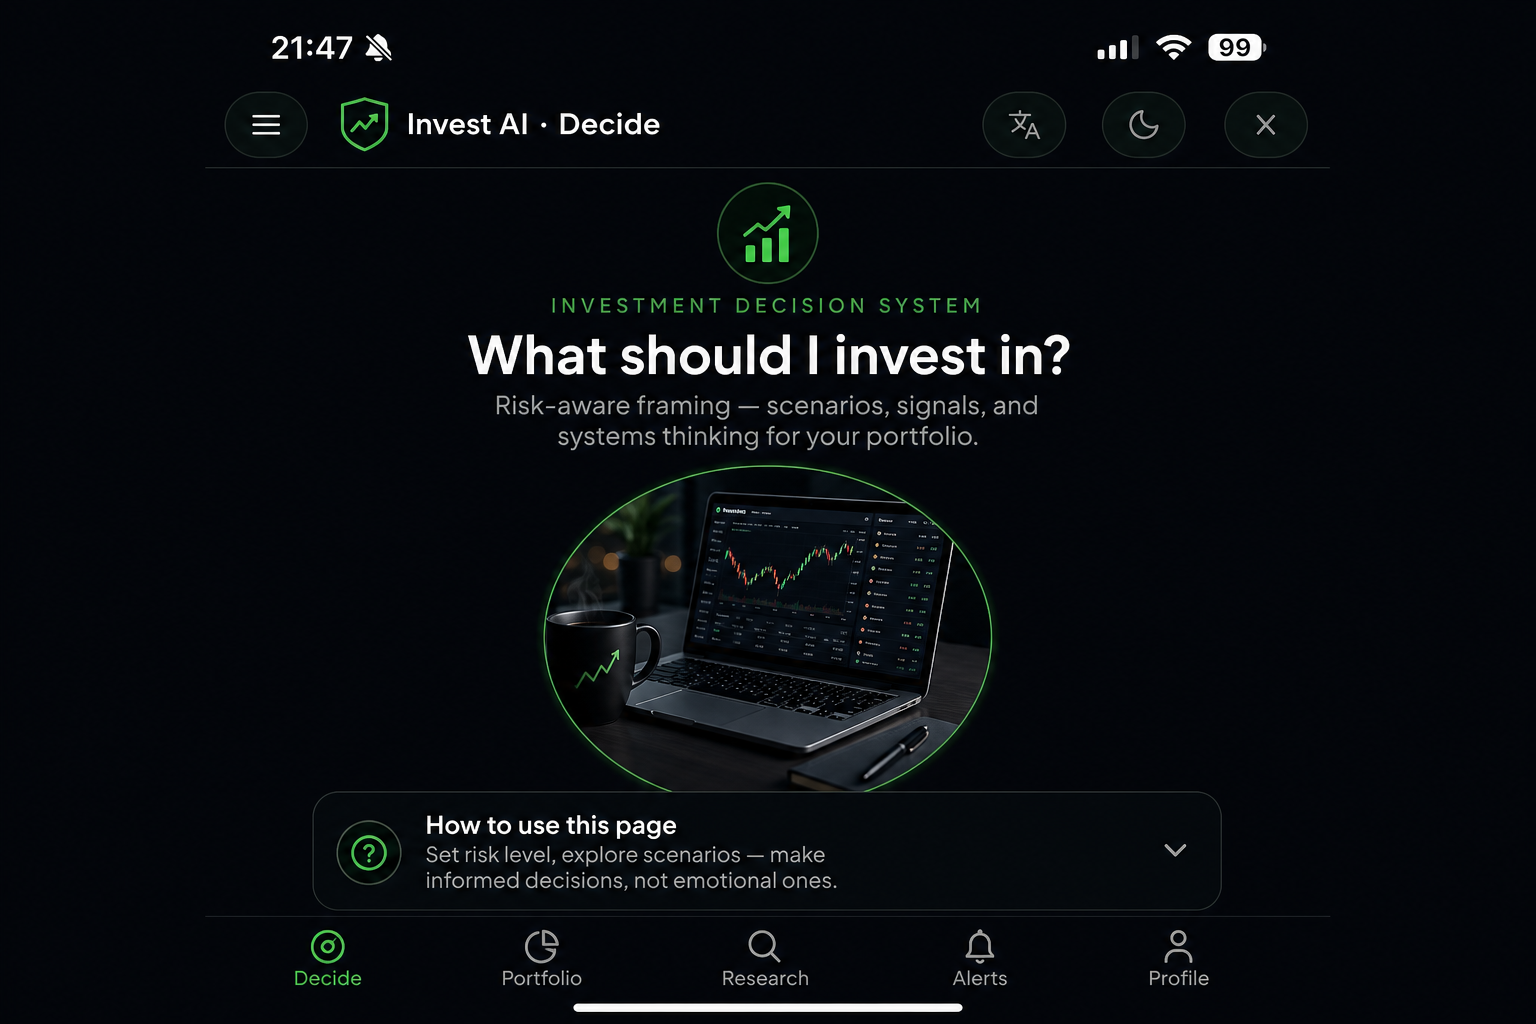
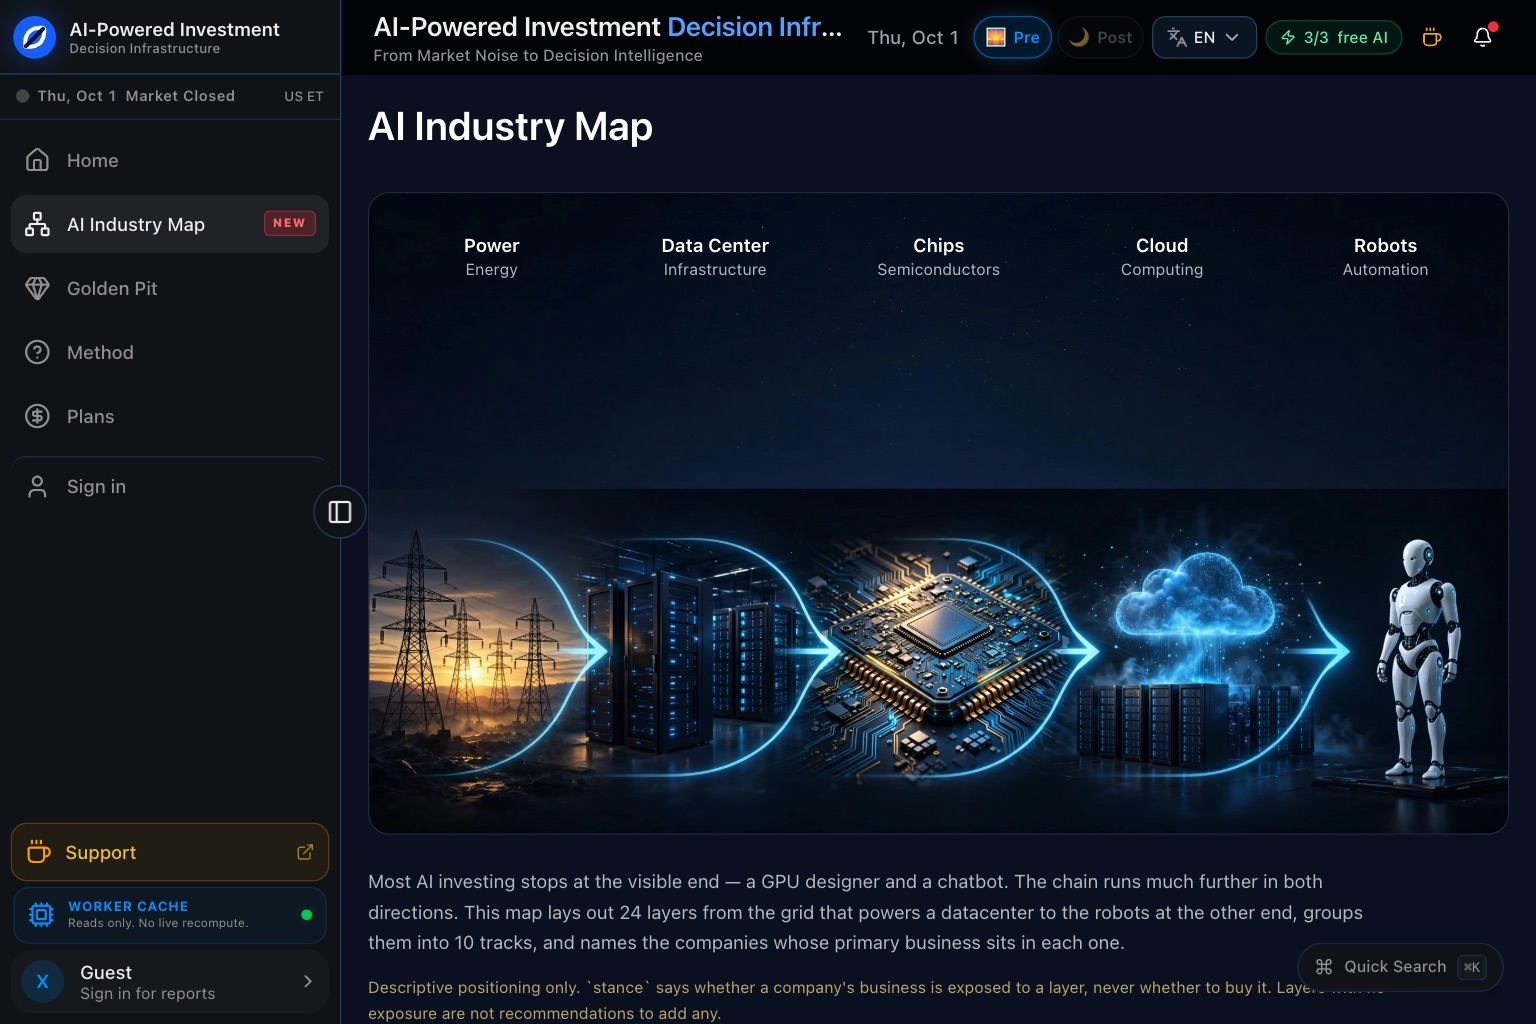
fix(home): lead the hero with the AI Industry Map
The hero headline names the AI Industry Map as the flagship, but the
quick-demo list, the carousel's first slide and the core-system cards
all opened on Eating Decision. Reorder the hero apps so Invest comes
first, then the other live products (Travel, Cook), then the demos.

The Invest preview image was a May screenshot of the old "What should
I invest in?" decision board, which contradicts the research-map
positioning. Replace it with a current capture of /ai-map. The Invest
site is dark-only, so the light and dark slots use the same image.

diff --git a/app/[locale]/home-page.tsx b/app/[locale]/home-page.tsx
@@ -77,7 +77,7 @@ export default function Home() {
   const [activeHeroIndex, setActiveHeroIndex] = useState(0);
   const apps = getLocalizedApps(locale);
   const homeShelfApps = getHomeShelfApps(locale);
-  const heroPreviewApps = ["meal-coach", "cook-ai", "sat-ai", "investment-assistant", "travel-ai"].flatMap(
+  const heroPreviewApps = ["investment-assistant", "travel-ai", "cook-ai", "meal-coach", "sat-ai"].flatMap(
     (slug) => {
       const app = apps.find((item) => item.slug === slug);
       return app ? [app] : [];
